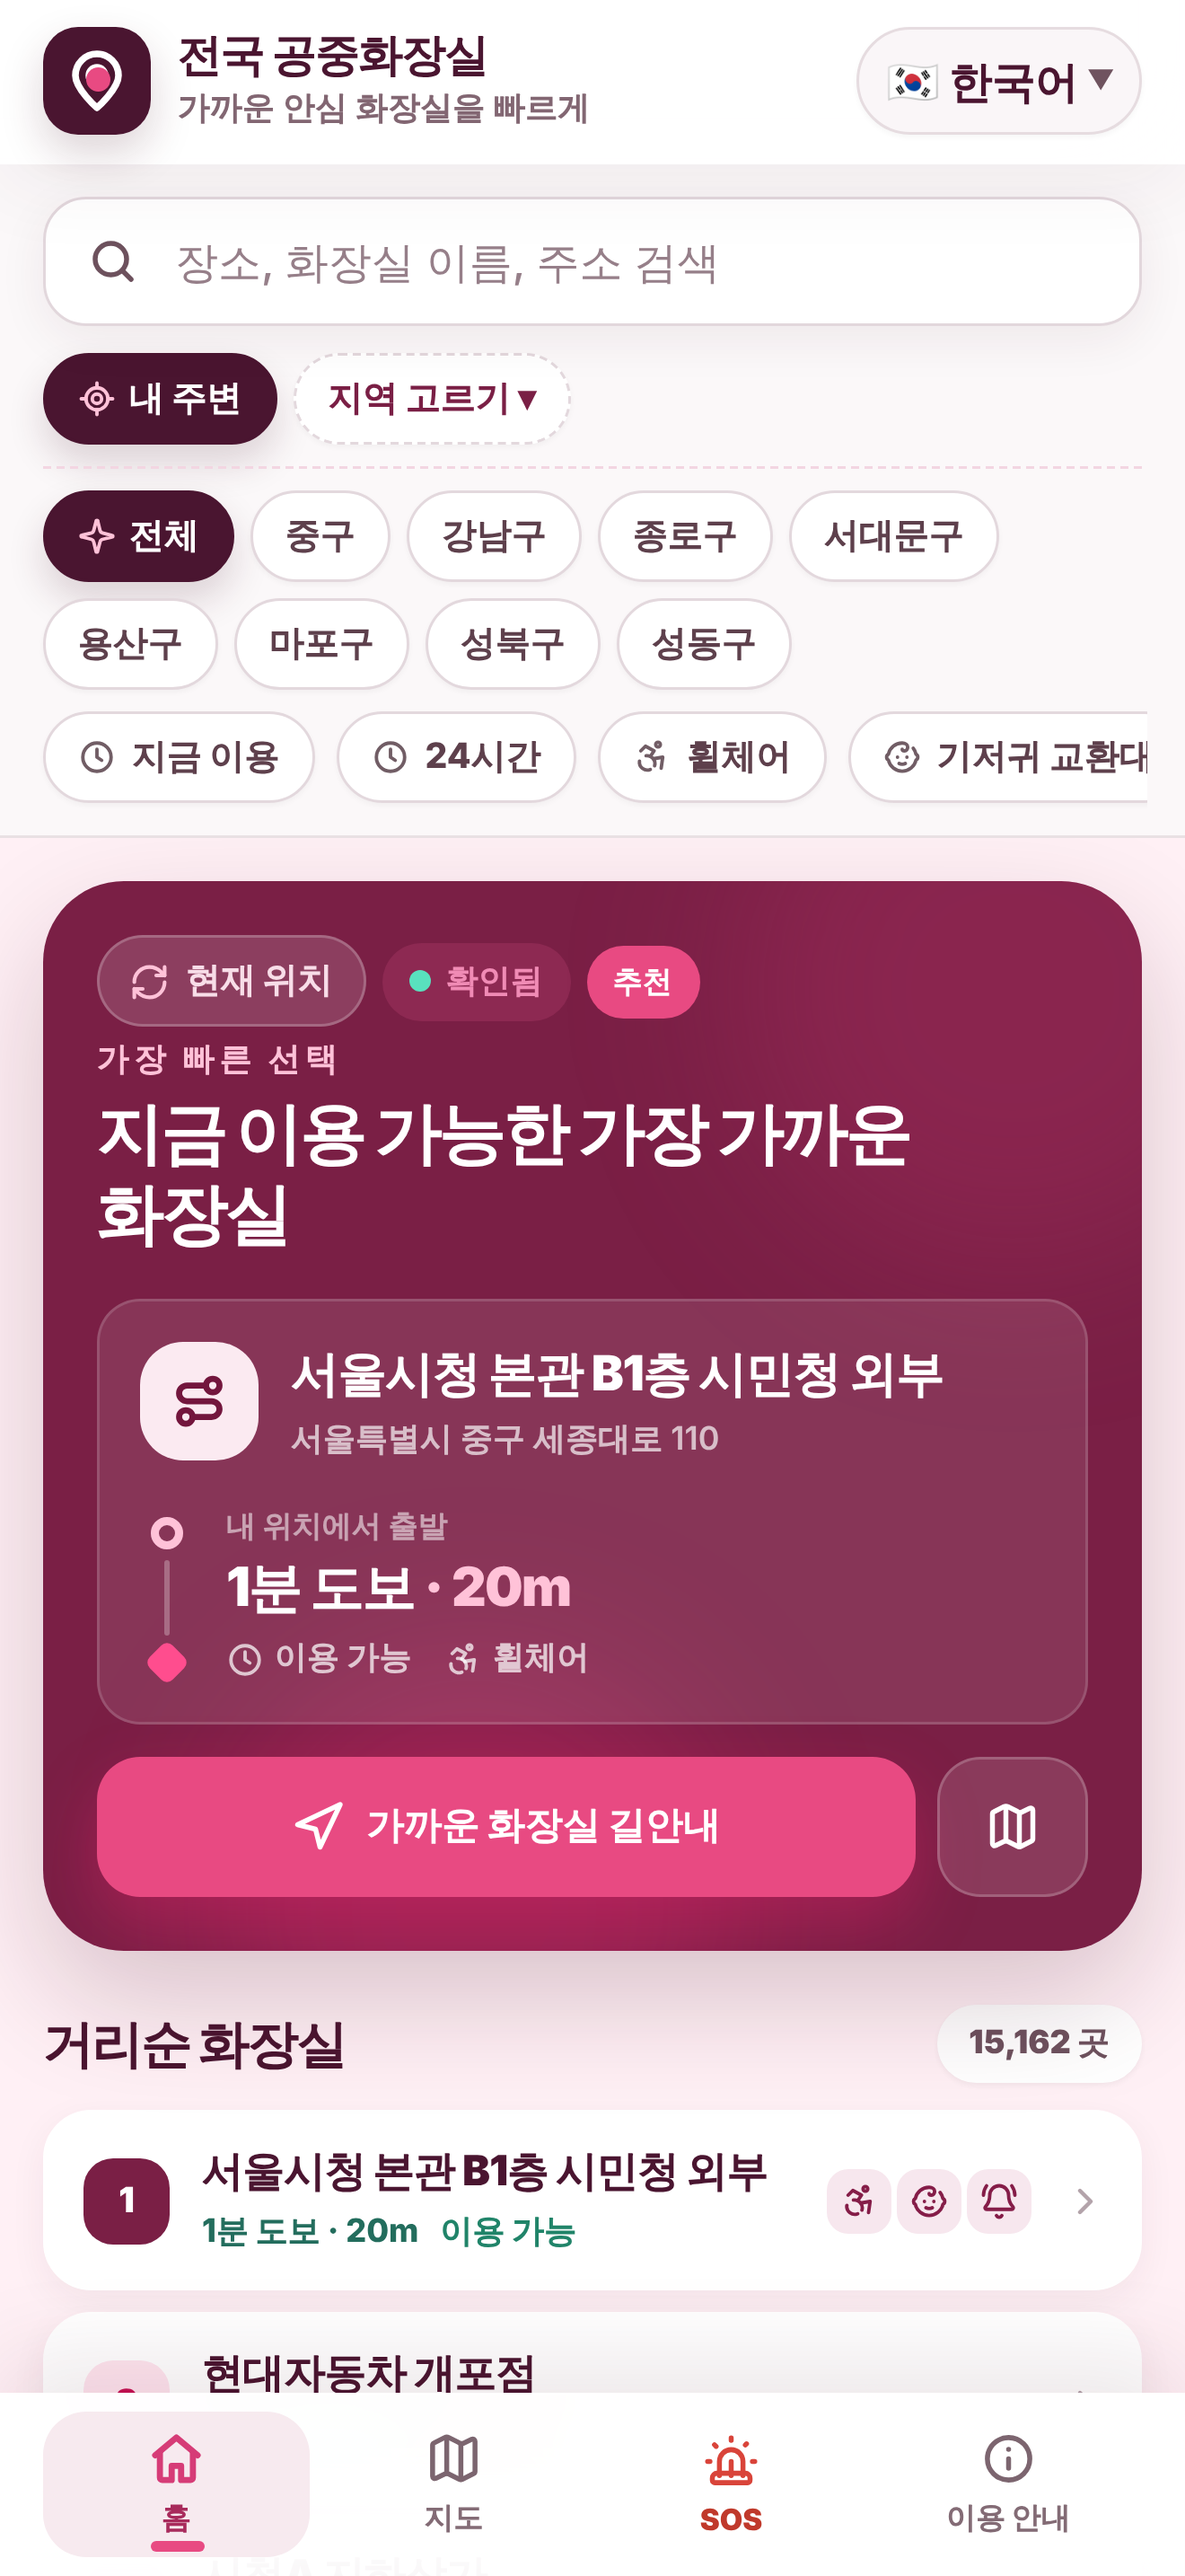
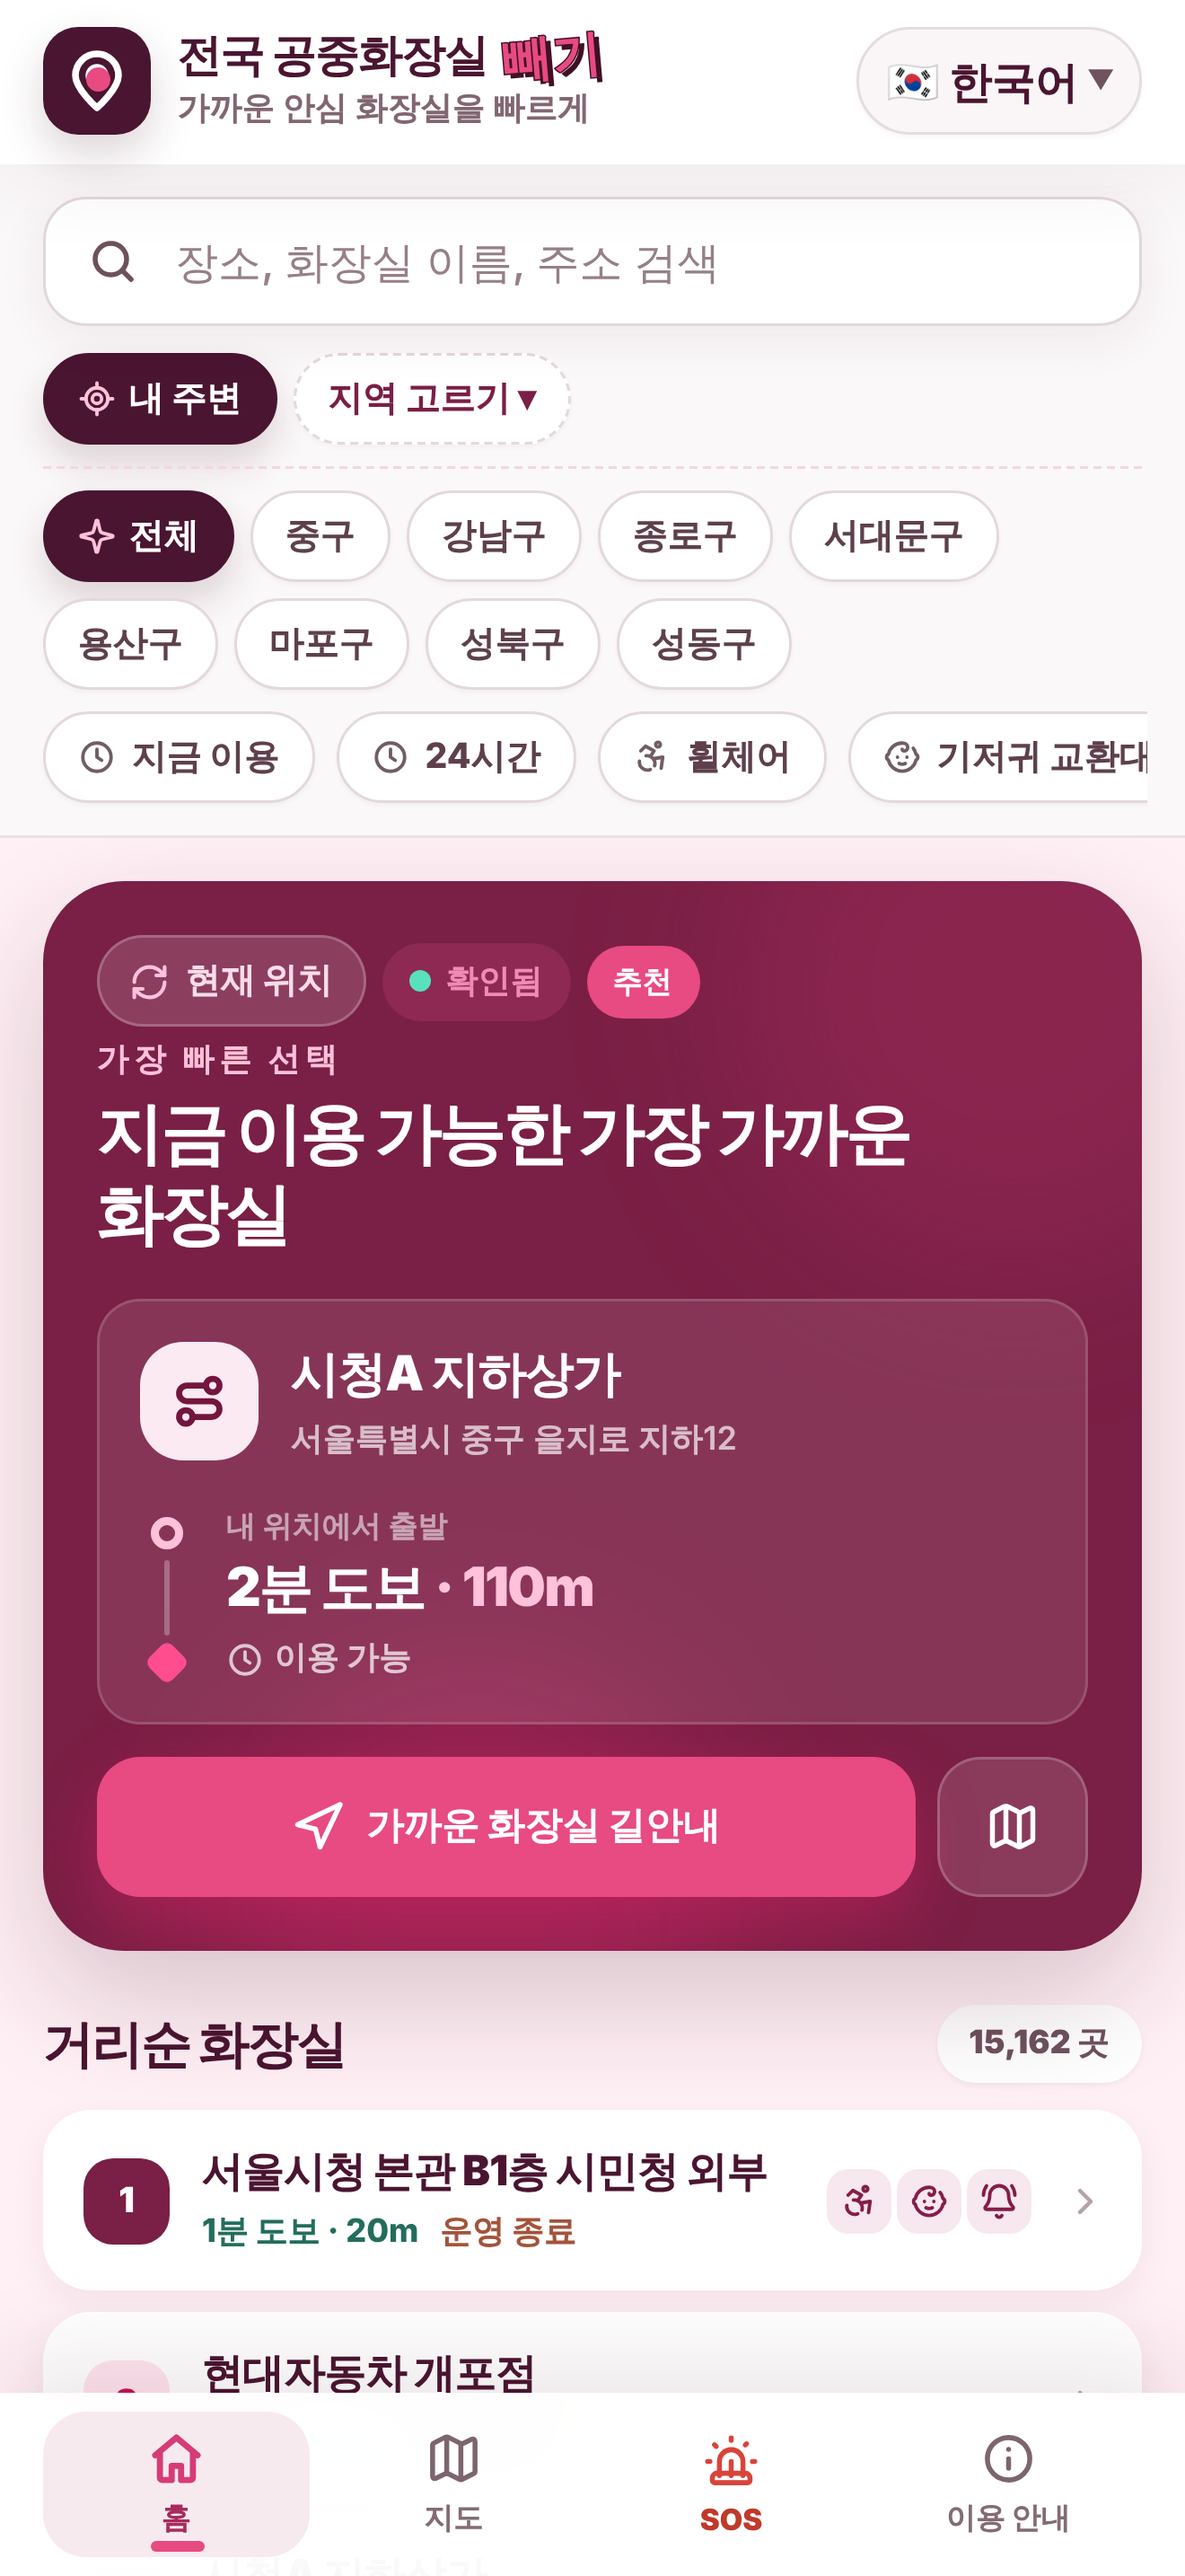
아이폰 앱 이름을 '빼기'로 변경 (홈 화면·앱 상단·개인정보처리방침·스크린샷)
Claude-Session: https://claude.ai/code/session_01QzXU9EtEM7iyAjoURvPGrb

diff --git a/privacy.html b/privacy.html
@@ -3,7 +3,7 @@
 <head>
 <meta charset="utf-8">
 <meta name="viewport" content="width=device-width, initial-scale=1">
-<title>개인정보처리방침 · 전국 공중화장실 찾기</title>
+<title>개인정보처리방침 · 빼기 전국 공중화장실</title>
 <style>
   :root { --ink: #4A1530; --accent: #E84A82; --bg: #FFF0F5; --line: #F3D6E2; }
   * { box-sizing: border-box; }
@@ -22,11 +22,11 @@
 <body>
 <main>
   <h1>개인정보처리방침</h1>
-  <p class="date">전국 공중화장실 찾기 · 시행일 2026년 10월 28일</p>
+  <p class="date">빼기 전국 공중화장실 · 시행일 2026년 10월 28일</p>
 
   <section>
     <h2>1. 기본 원칙</h2>
-    <p>전국 공중화장실 찾기(이하 "앱")은 회원가입이나 로그인 없이 이용할 수 있으며, 이름·전화번호·이메일 같은 개인정보를 수집하지 않습니다. 이 방침은 앱을 이용할 때 처리되는 정보와 그 목적을 알려 드리기 위한 것입니다.</p>
+    <p>빼기 전국 공중화장실(이하 "앱")은 회원가입이나 로그인 없이 이용할 수 있으며, 이름·전화번호·이메일 같은 개인정보를 수집하지 않습니다. 이 방침은 앱을 이용할 때 처리되는 정보와 그 목적을 알려 드리기 위한 것입니다.</p>
   </section>
 
   <section>

diff --git a/js/app.js b/js/app.js
@@ -9,8 +9,11 @@ const IS_IOS_APP = /PWAShell/.test(navigator.userAgent) || /(?:^|;\s*)app-platfo
 const IS_IOS = IS_IOS_APP || /iPhone|iPad|iPod/i.test(navigator.userAgent) || (navigator.platform === "MacIntel" && navigator.maxTouchPoints > 1);
 const CLEAN = IS_IOS_APP;
 const PIN = CLEAN ? PIN_HTML_CLEAN : PIN_HTML;
-const APP_NAME = CLEAN ? "화장실 찾기" : "Ddong";
-if (CLEAN) { document.documentElement.classList.add("ios-app"); document.title = "전국 공중화장실 찾기"; }
+const APP_NAME = CLEAN ? "빼기" : "Ddong";
+if (CLEAN) {
+  document.documentElement.classList.add("ios-app"); document.title = "빼기 · 전국 공중화장실";
+  const an = document.querySelector(".app-name"); if (an) { an.textContent = "빼기"; an.classList.add("ios-name"); }
+}
 
 // ---------- 상태 ----------
 const SEOUL_CITY_HALL = { lat: 37.5663, lng: 126.9779 };

diff --git a/index.html b/index.html
@@ -23,7 +23,7 @@
   <title>Ddong · 전국 공중화장실</title>
   <script>
     // 아이폰 App Store 앱이면 처음부터 'ios-app' 표시 (상단 Ddong 글자가 잠깐 보이지 않게)
-    if (/PWAShell/.test(navigator.userAgent) || /(?:^|;\s*)app-platform=iOS/.test(document.cookie)) { document.documentElement.classList.add("ios-app"); document.title = "전국 공중화장실 찾기"; }
+    if (/PWAShell/.test(navigator.userAgent) || /(?:^|;\s*)app-platform=iOS/.test(document.cookie)) { document.documentElement.classList.add("ios-app"); document.title = "빼기 · 전국 공중화장실"; }
   </script>
 </head>
 <body>

diff --git a/css/app.css b/css/app.css
@@ -526,6 +526,7 @@ html, body { touch-action: manipulation; }
 
 /* ---------- 아이폰 App Store 앱 (애플 심사용: 똥 표현 숨김) ---------- */
 .ios-app .app-name { display: none; }
+.ios-app .app-name.ios-name { display: inline-block; font-family: "Noto Sans KR", sans-serif; font-weight: 900; font-size: 1.1em; }
 /* ---------- 길안내 앱 고르기 (아이폰: Apple 지도 포함) ---------- */
 button.n-go { width: 100%; border: 0; font-family: inherit; cursor: pointer; }
 .nav-sheet { text-align: left; }
